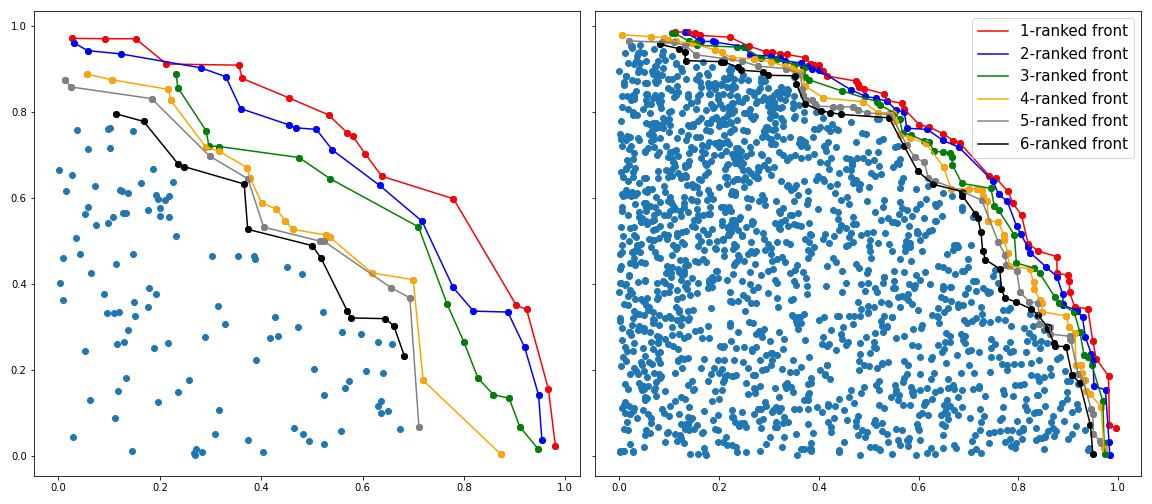
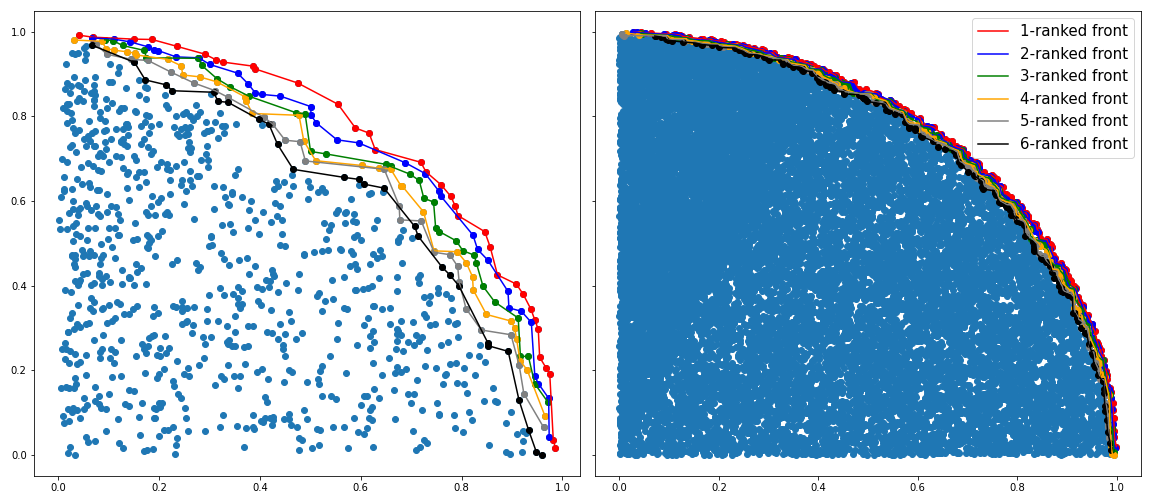
Large set

diff --git a/README.md b/README.md
@@ -25,13 +25,13 @@ import torch
 
 from pareto_front import gpu_pareto_front
 
-N = 200
+N = 2000
 x_small = np.random.rand(N,2)
 x_small[:,1] *= 2
 x_small[:,0], x_small[:,1] = (abs(np.sqrt(x_small[:,0]) * np.cos(x_small[:,1])), 
                               abs(np.sqrt(x_small[:,0]) * np.sin(x_small[:,1])))
 
-N = 2000
+N = 20000
 x_large = np.random.rand(N,2)
 x_large[:,1] *= 2
 x_large[:,0], x_large[:,1] = (abs(np.sqrt(x_large[:,0]) * np.cos(x_large[:,1])), 
